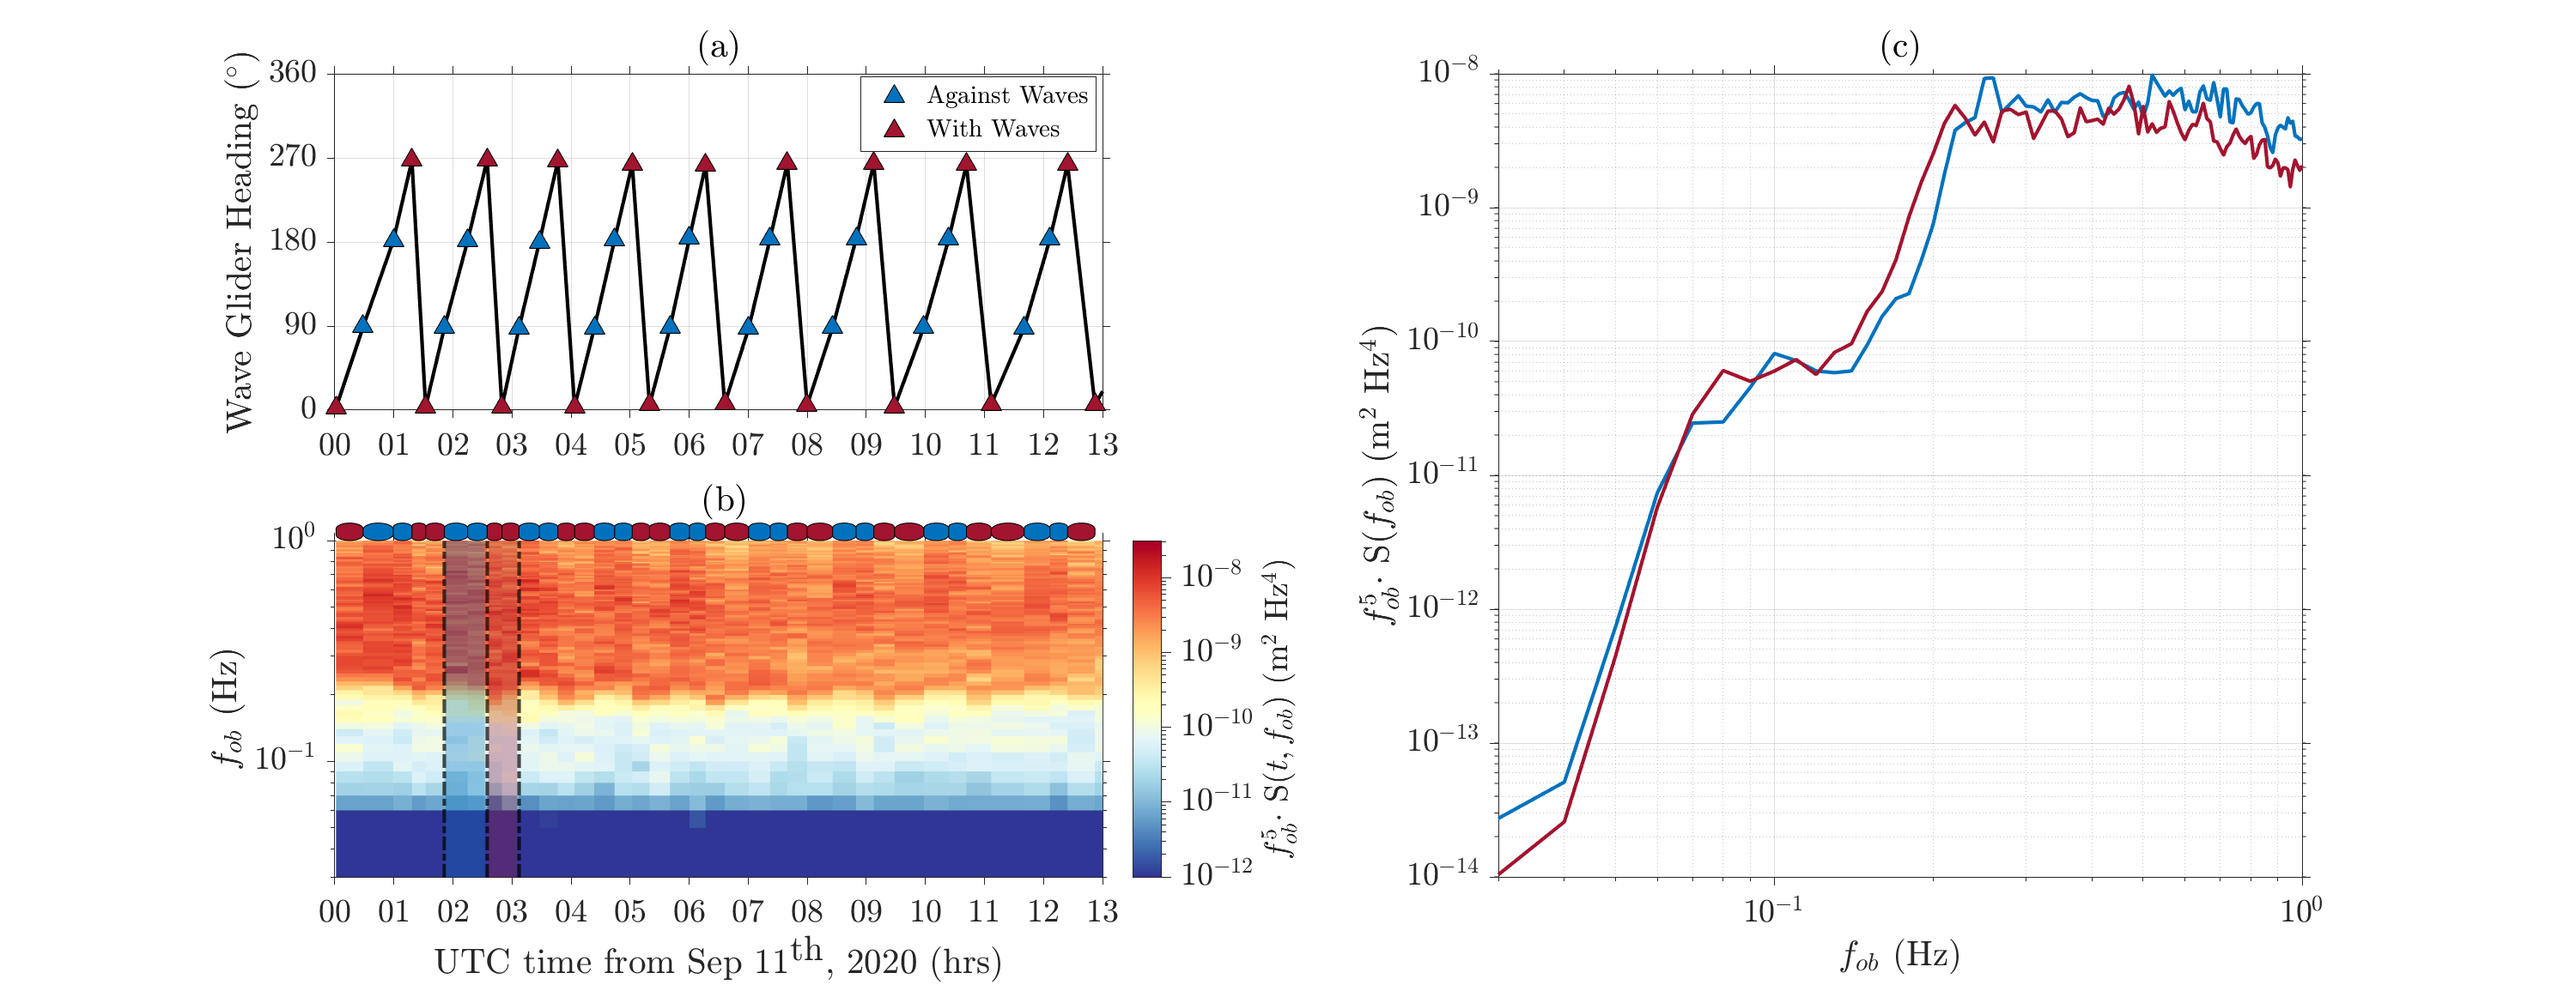
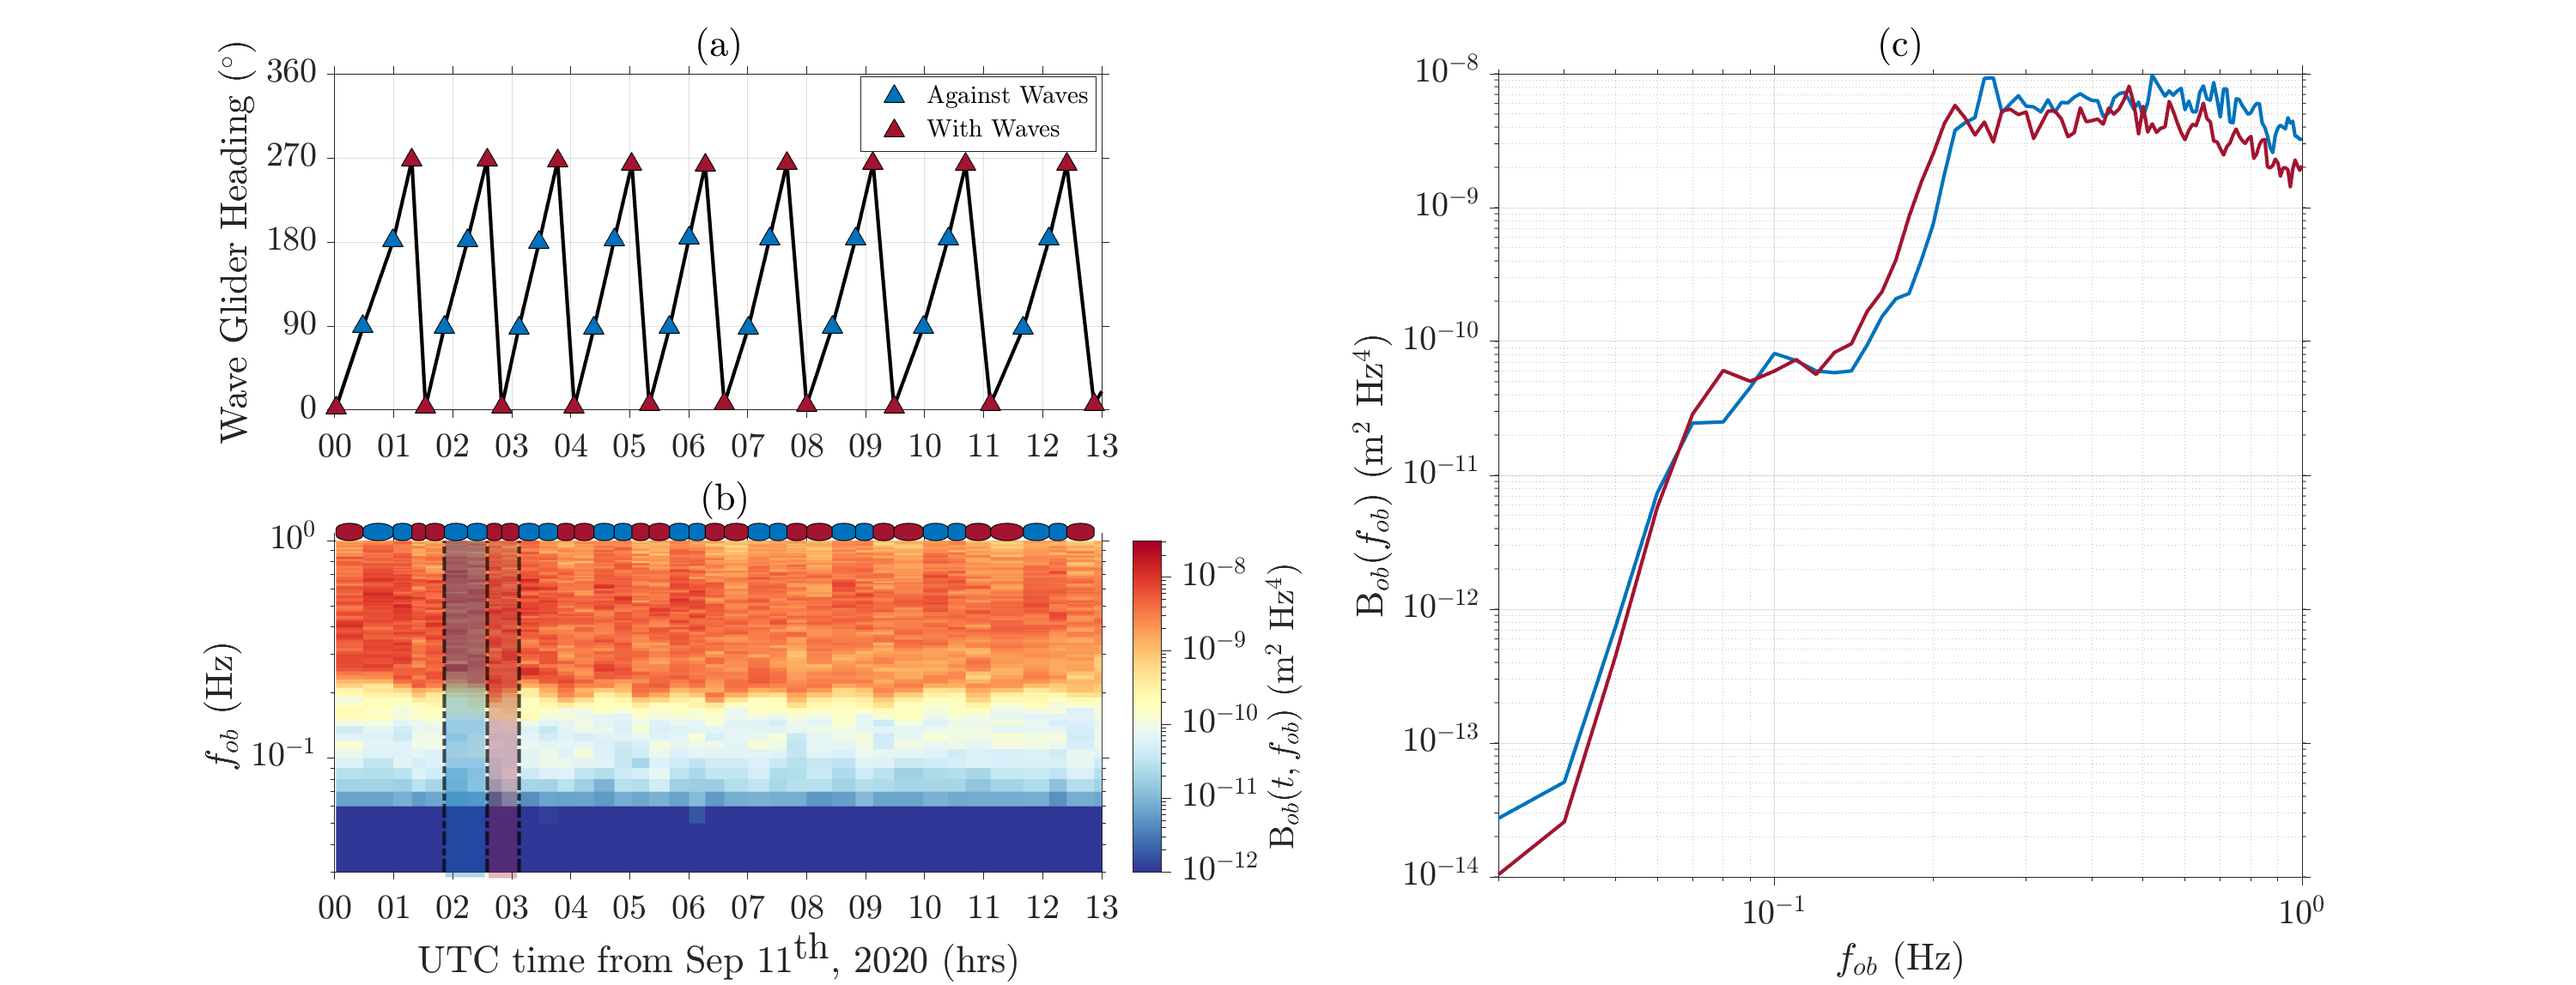
Increase font and update caption.

diff --git a/src/fig8.m b/src/fig8.m
@@ -24,15 +24,19 @@
 %-------------------------------------%
 
 %-------------------------------- Caption --------------------------------%
-% (a)  Stokes wave glider heading using the coming from direction convention for
-% small box legs. Red triangles denote the legs 
-% where the platform is moving in the direction of wave propagation for 
-% high frequency waves ($f_ob > 10^{-1}$). Blue triangles denote the legs 
-% where the platform is moving against the direction of wave propagation 
-% for high frequency waves These high frequency waves have a mean wave 
-% direction coming from $\sim 300^\circ$. (b) Saturation spectrogram for
-% the Stokes wave glider small box trajectory. (c) Two examples of
-% saturation spectra for against (red curve) and with (blue curve). 
+% (a)  Stokes Wave Glider heading (using the coming from directional
+% convention) for small box legs. Red triangles denote the legs where the
+% platform is moving in the direction of wave propagation for high
+% frequency waves ($f_{ob} > 10^{-1}$). Blue triangles denote the legs
+% where the platform is moving against the direction of wave propagation
+% for high frequency waves. These high frequency waves have a mean wave
+% direction coming from $\sim 300^\circ$. (b) Saturation spectrogram
+% for the Stokes Wave Glider small box formation with red and blue colored
+% ovals along the top axis specifying the high-frequency wave relative 
+% angle using same color code as in Figure~\ref{f8}a. The red and blue 
+% highlighted saturation spectra correspond to the averaged spectra in 
+% Figure~\ref{f8}c. (c) Two averaged saturation spectra for against 
+% (red curve) and with (blue curve) wave cases.
 %-------------------------------------------------------------------------% 
 
 clc, clear, close all;
@@ -168,7 +172,7 @@ first = datetime(2020, 09, 10,23,0,0);
 last = datetime(2020, 09, 11,13,0,0);
 t_ticks = datenum(first:hours(1):last);
 t_case = find(nov_s.time_legs > datenum(2020, 09, 11,2,0,0) & nov_s.time_legs < datenum(2020, 09, 11,3,20,0));
-fontsize = 18;
+fontsize = 19;
 red = [0.6350 0.0780 0.1840]; 
 blue = [0 0.4470 0.7410];
 
@@ -252,7 +256,7 @@ cb = colorbar;
 colormap(flipud(cbrewer2('RdYlBu')))
 set(gca,'ColorScale','log')
 cb.Label.Interpreter = 'Latex';
-cb.Label.String = '$f_{ob}^5 \cdot$ S($t,f_{ob}$) (m$^2$ Hz$^{4}$)';
+cb.Label.String = 'B$_{ob}$($t,f_{ob}$) (m$^2$ Hz$^{4}$)';
 caxis([10^-12, 10^-7.5]);
 cb.Ticks = [10^-12; 10^-11; 10^-10; 10^-9; 10^-8] ;
 cb.TickLabels = { '$10^{-12}$'; '$10^{-11}$'; '$10^{-10}$'; '$10^{-9}$'; '$10^{-8}$'} ; 
@@ -273,7 +277,7 @@ hold off
 
 % Set figure Attributes
 title('(c)')
-ylabel('$f_{ob}^5 \cdot$ S($f_{ob}$) (m$^2$ Hz$^{4}$)','Interpreter','Latex')
+ylabel('B$_{ob}$($f_{ob}$) (m$^2$ Hz$^{4}$)','Interpreter','Latex')
 xlabel('$f_{ob}$ (Hz)','Interpreter','Latex')
 xlim([3*10^-2 10^0])
 grid on 
